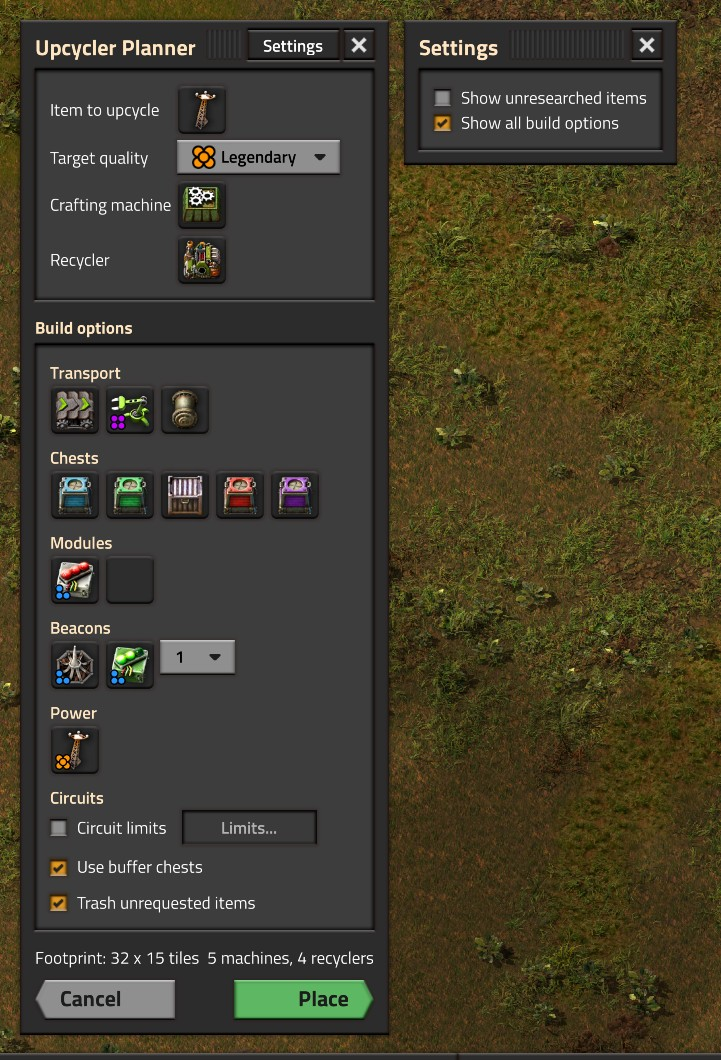
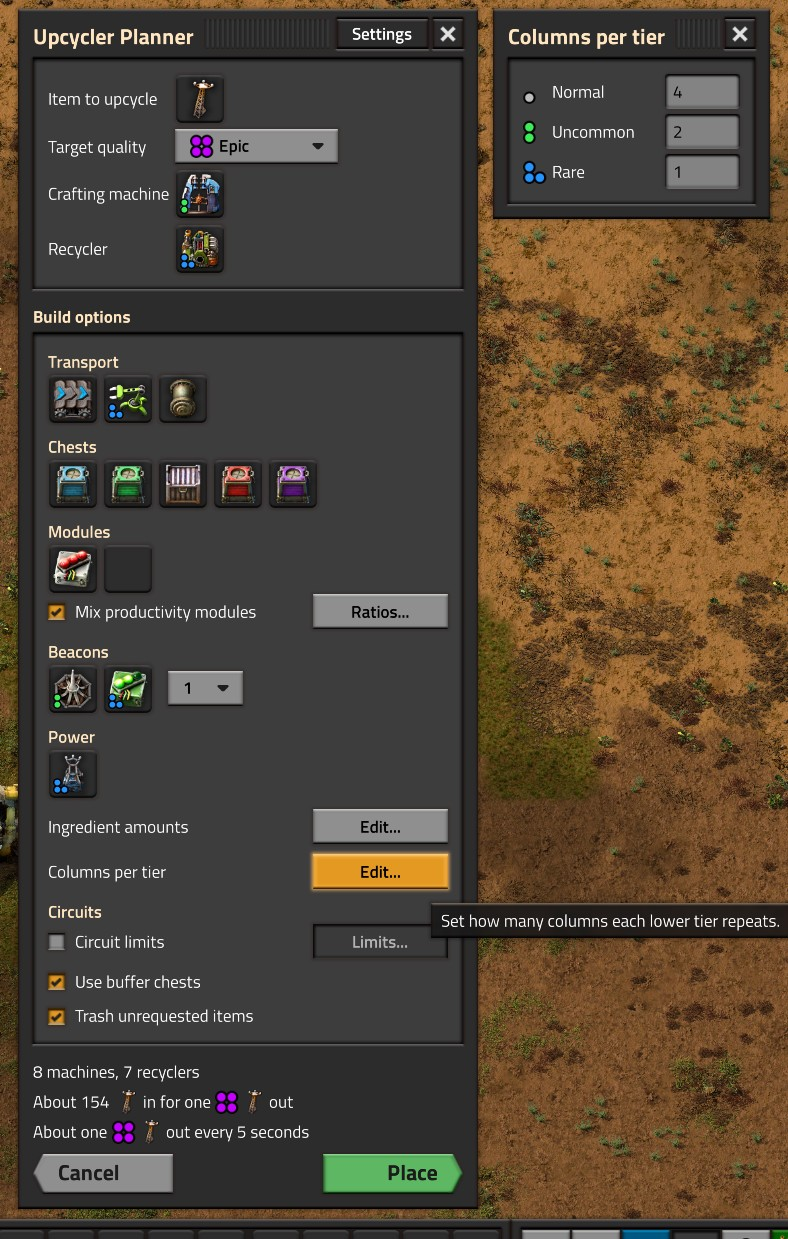
fix(upcycler-planner): line up the Build options rows
The mix line, the two Edit... doors and the circuits line are four
independent flows, so each button's left edge landed wherever its own
caption ended -- a ~90px spread. One shared label width puts them in a
column; the buttons needed nothing, being already at button's 108px
minimum. A table would have computed the width instead of naming it, but
the Circuits caption sits between the rows and Factorio tables have no
column span.

The beacon count drop-down is a second cause with the same look: the
beacons flow is the only group mixing control heights and carried no
vertical_align, so the drop-down hung off the top of the 40px pickers.
Centred, with a margin off the module picker.

Gallery shot 01 replaced with one showing the aligned rows.

diff --git a/upcycler-planner/.ai-support/journal.md b/upcycler-planner/.ai-support/journal.md
@@ -9,6 +9,47 @@ everything older than the last release into `journal-archive/<year>.md` and leav
 
 ---
 
+## 2026-08-30 - Build options rows line up, and the beacon count stops floating
+
+The owner's screenshot circled four buttons that did not share an edge: *Ratios...*,
+*Edit...*, *Edit...*, *Limits...*. The cause was structural rather than cosmetic — each row is
+its own horizontal flow, so a button's left edge is wherever its own caption ends, and the
+four captions differ by ~90px. One shared `ROW_LABEL_WIDTH` on each row's first element fixed
+all four at once; the buttons needed nothing, being already at `button`'s 108px minimum. The
+rule and the rejected `table` shape are in `decisions.md`.
+
+The beacon count drop-down was a second, unrelated cause with the same look: the beacons flow
+is the only group mixing control heights and carried no `vertical_align`, so the drop-down
+hung off the top of the 40px pickers. Centred, plus an 8px margin. The owner picked keeping it
+in the icon strip over giving it a labelled row of its own.
+
+**The width was measured, not reasoned.** Nothing reads a rendered size (`analysis/api.md`
+§19), so 200 started as an estimate off the owner's screenshot and was then checked the only
+way there is: a throwaway `tests/shot_spec.lua` opened the modal with show-all on and an item
+picked, took a `show_gui` screenshot in the graphics tier, and was deleted with its
+`control.lua` line once the picture confirmed one column. Worth repeating for any future GUI
+geometry — the same trick left `upl-panel-proof.png` behind on an earlier run. Headless
+332/332 before, graphics 333/333 with the throwaway in.
+
+**The static tier earned its place.** The first cut named the new local `label`, which shadows
+the `label(key)` helper the MAKES block defines one scope up — luacheck W431, invisible to all
+332 in-game tests because the shadowing is harmless at runtime and the specs only read element
+names. Renamed `row_label`. Nothing else in the five-tier gate would have caught it.
+
+Shipped the same day as **1.0.2 for Factorio 2.1 and 1.0.3 for Factorio 2.0**, on the owner's
+ask. 1.0.0 and 1.0.1 were both tagged, so the work could not join an open section, and 1.0.1
+was taken by the 2.0 port — which is also why `fmtk version` was no use here: it only ever
+increments the patch and would have collided. `info.json` and both sections were written by
+hand, 1.0.2 carrying the entry (the owner's own wording) and 1.0.3 the port pointer, both
+stamped before either zip was built so the two branches ship one identical file.
+
+The port went across by hand rather than by cherry-pick, `scripts/gui.lua` being a forked file:
+the six edits re-applied, then proved by diffing the two working copies — the only difference
+left is the three `contains_value` hunks the fork has always had. The
+owner also replaced gallery shot 01 with one taken after the fix, so the portal swap was a
+single image: five of the six live ids already equalled their local files' sha1, and only that
+one had to be uploaded.
+
 ## 2026-08-29 - 1.0.0 and 1.0.1 ship: the 1.0 milestone, both tracks
 
 Released on the owner's ask, both tracks in one session: **1.0.0 for Factorio 2.1** from

diff --git a/upcycler-planner/.ai-support/decisions.md b/upcycler-planner/.ai-support/decisions.md
@@ -432,6 +432,25 @@ per-release approval.
   `analysis/api.md` §19). A group whose every picker is hidden — the chests by default, the
   beacon group until show-all or a pick — hides caption and row together, the rule owned once
   by the group rather than by each button.
+- **Every label-and-button row in Build options shares one label width** (owner's screenshot,
+  2026-08-30: "some buttons are misaligned which is annoying"). The mix line, the two
+  *Edit...* doors and the circuits line are four independent flows, so each button started
+  wherever its own caption happened to end and the four left edges staggered across ~90px.
+  One `ROW_LABEL_WIDTH` (200) on each row's first element — checkbox or label — puts them in
+  a column; the buttons need no width of their own, since all four captions are short enough
+  to sit at `button`'s own 108px minimum. **A fifth such row uses the same constant** — that
+  is the whole point of it being one. This is the side panels' own rule (`minimal_width = 110`
+  on every wizard row label, or the fields stagger with the tier names) applied one level up.
+  A caption that outgrows the width pushes its own button right rather than overlapping, so
+  the worst a long translation can do is bring back the ragged edge. **A `table` would have
+  computed the width instead of naming it**, and was rejected: the Circuits caption sits
+  between the rows and Factorio tables have no column span, so the four rows cannot be
+  contiguous cells without moving a group heading.
+- **The beacon count drop-down is centred, not top-aligned** (same session): the beacons group
+  is the only one mixing control heights, and a flow with no `vertical_align` hung the 28px
+  drop-down off the top edge of the 40px pickers beside it. An 8px left margin goes with it —
+  it is a different kind of control, not a third icon in the row. Keeping it in the strip
+  rather than giving it a labelled row of its own was the owner's pick from the two offered.
 - **The player-facing vocabulary is fixed, and the code keys are not renamed to match it**
   (2026-08-26, owner's clarity pass over every string a player sees). One word per concept,
   used identically in the locale, the README and the FAQ:

diff --git a/upcycler-planner/CLAUDE.md b/upcycler-planner/CLAUDE.md
@@ -285,6 +285,8 @@ re-opening any of these, and don't restate a reason here.
   (the circuit-limits checkbox and its Limits wizard button) — with the buffer-chests and
   trash-unrequested checkboxes below them. A fully hidden group hides its caption with it. Every picker carries its
   own quality except the belt and the pipe, which the engine gives no quality bonus.
+  **Every label-and-button row in Build options shares one `ROW_LABEL_WIDTH`** — a fifth such
+  row uses the same constant rather than a width of its own, or its button leaves the column.
 - Ingredient request amounts are editable in a side panel — an *Edit...* button beside the item
   picker, dead until an item is picked. Only edits are stored (`request_<item>` flat numbers);
   they reset on an item change, and the floor is one. Reasons in `decisions.md`.
